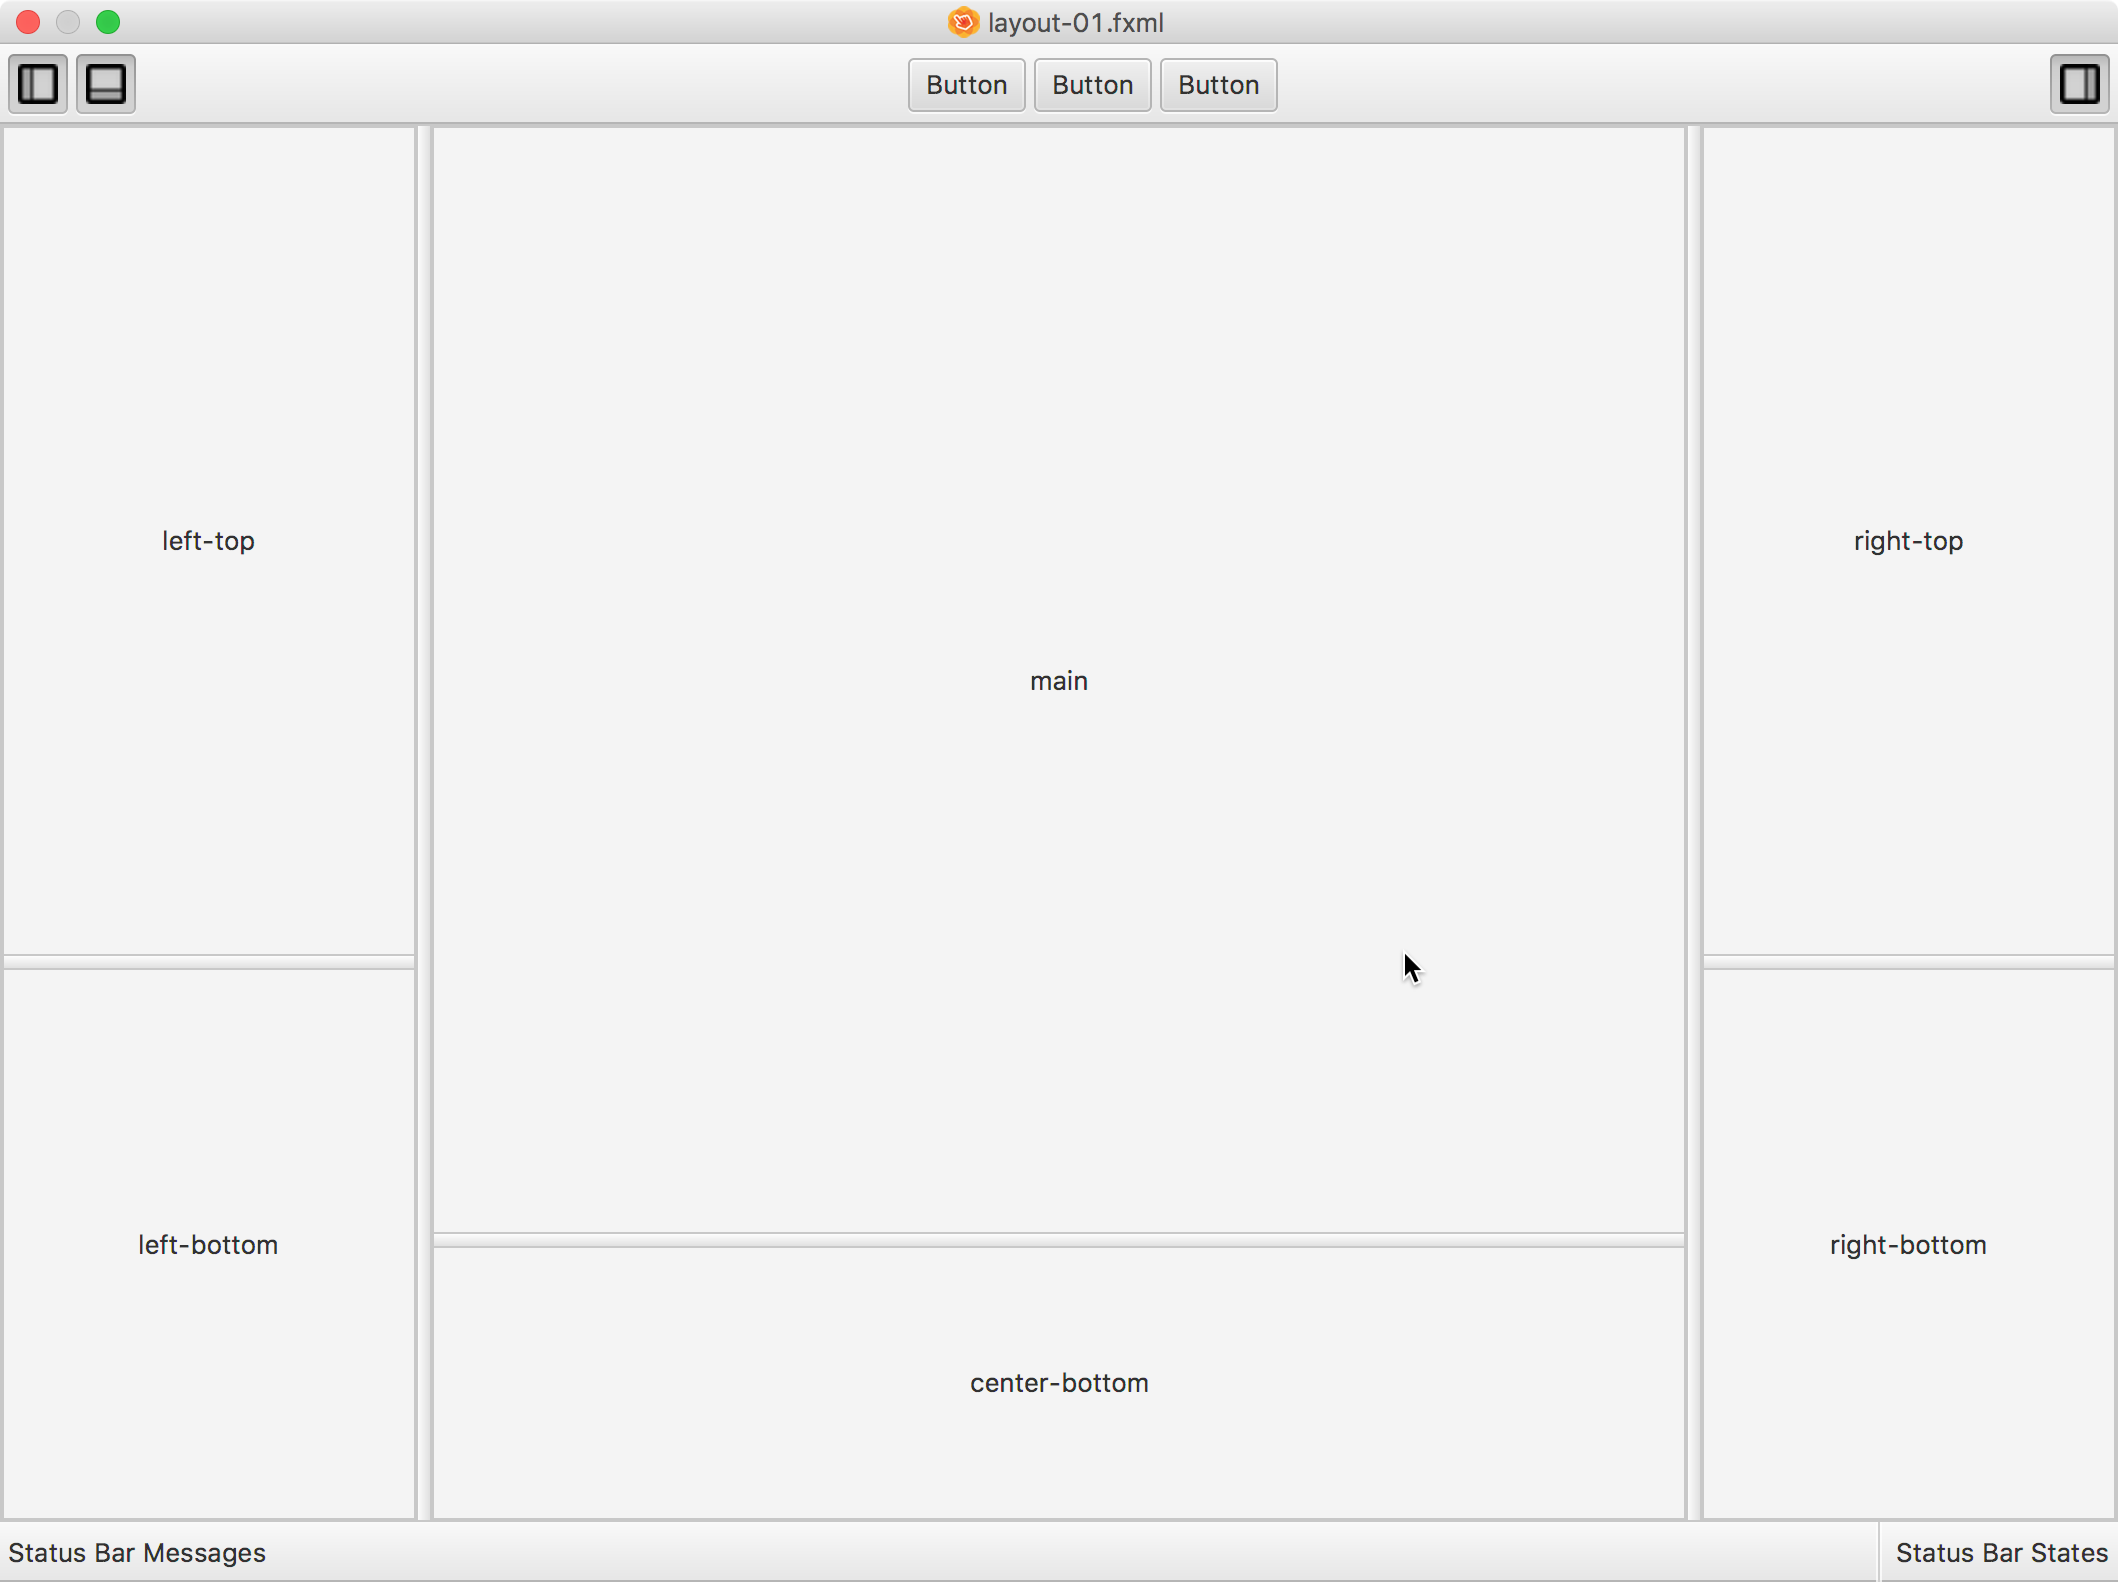
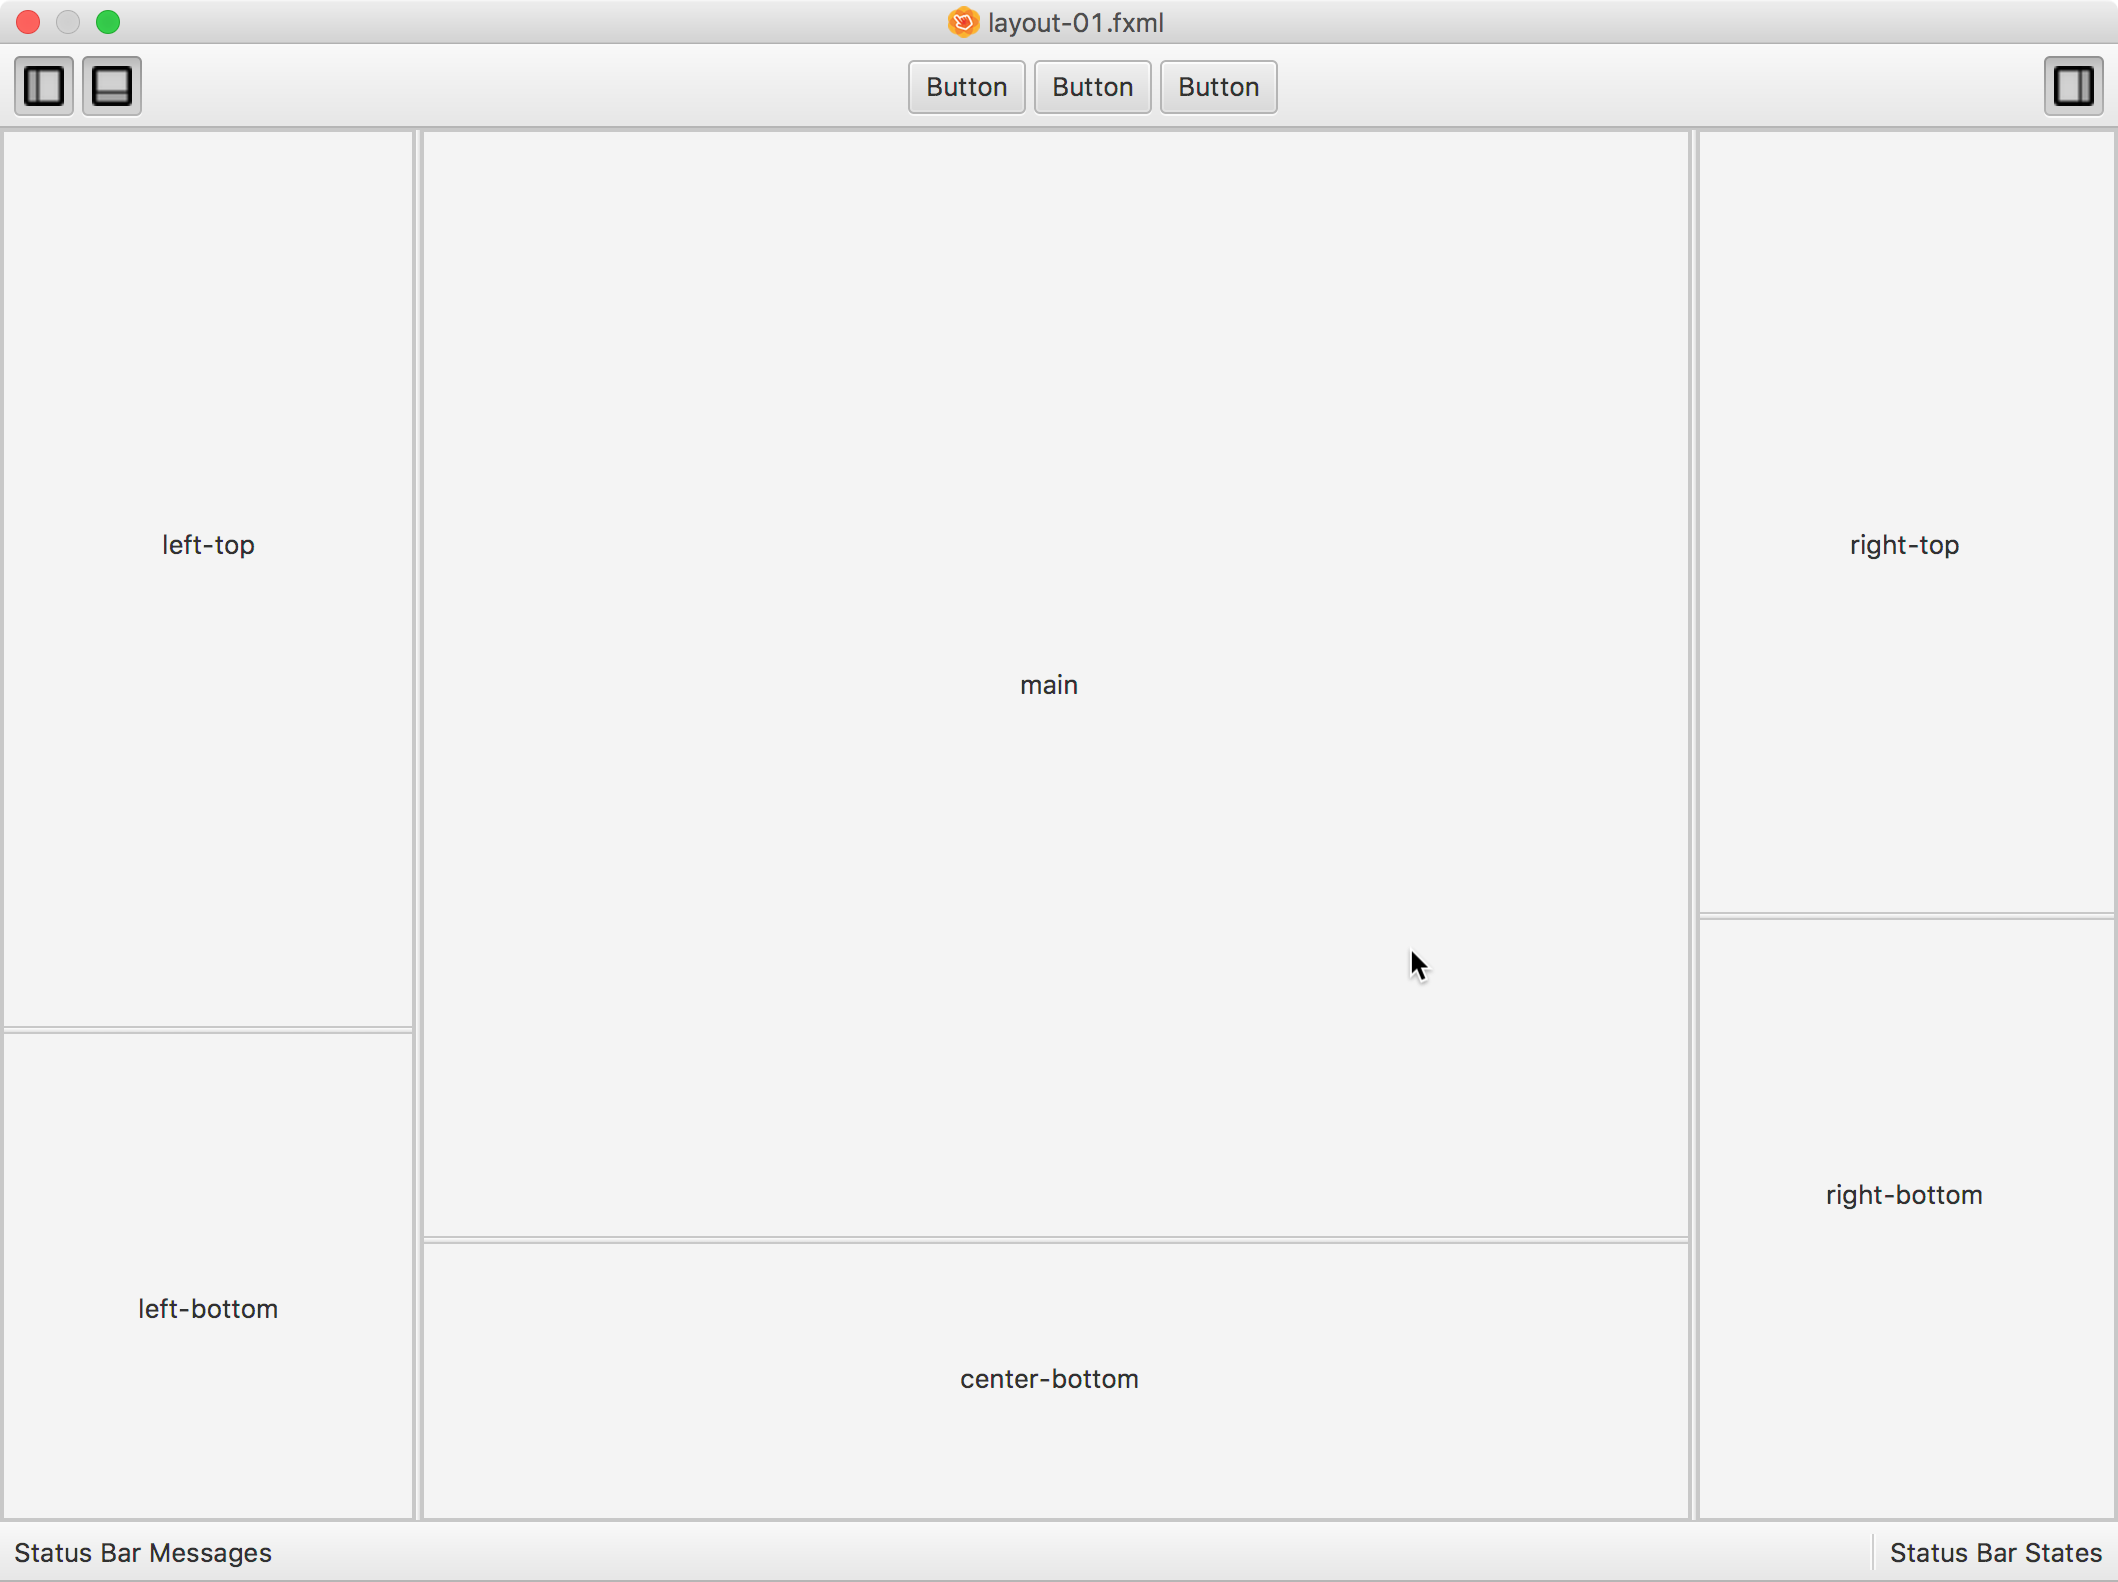
Updated layout.

diff --git a/doc/layout.css b/doc/layout.css
@@ -1,0 +1,3 @@
+.split-pane > .split-pane-divider {
+    -fx-padding: 0 0.095em 0 0.095em;
+}
